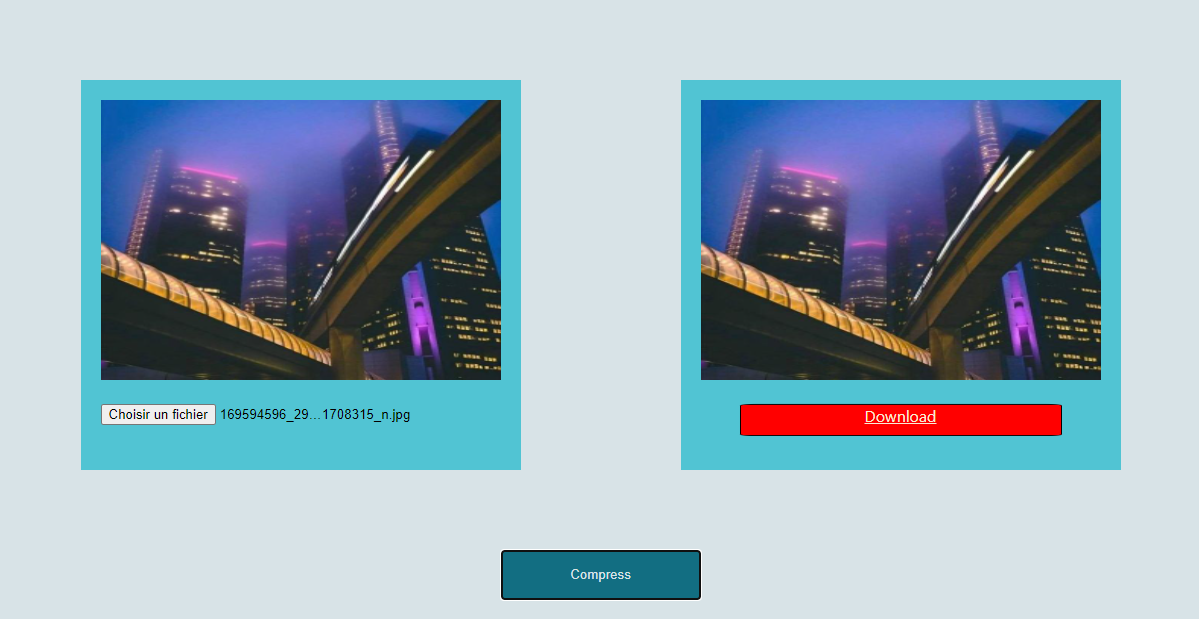
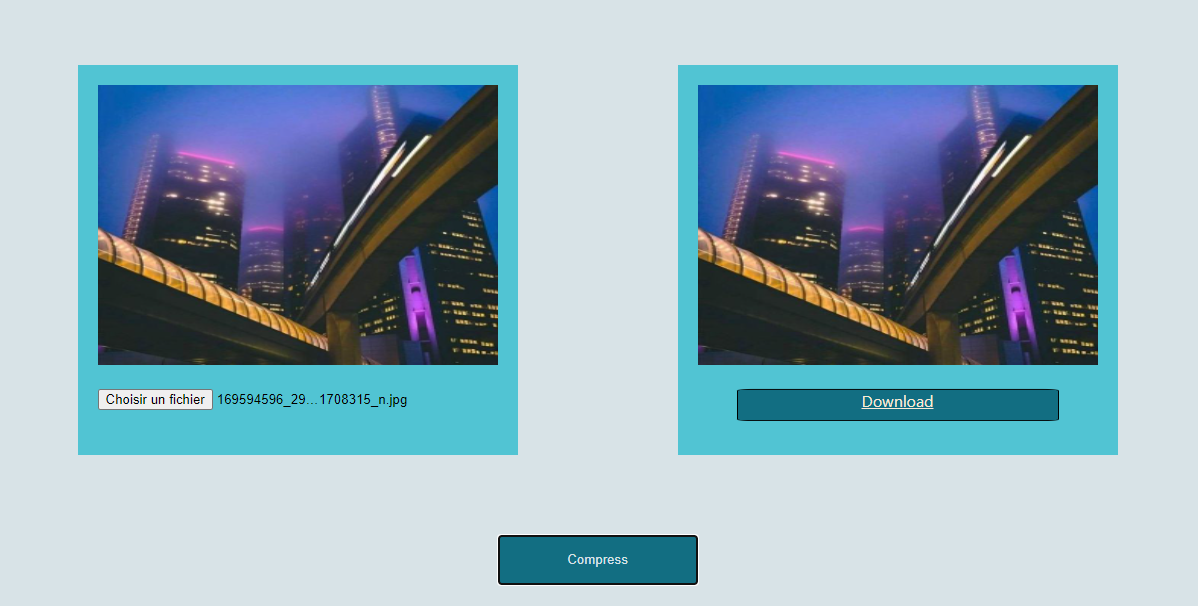
update

diff --git a/src/index.css b/src/index.css
@@ -66,7 +66,7 @@ img{
   margin-right: auto;
   width: 80%;
   height: 30px;
-  background-color: red;
+  background-color: #126e82;
   text-align: center;
   border: 1px solid black;
   border-radius: 5%;
